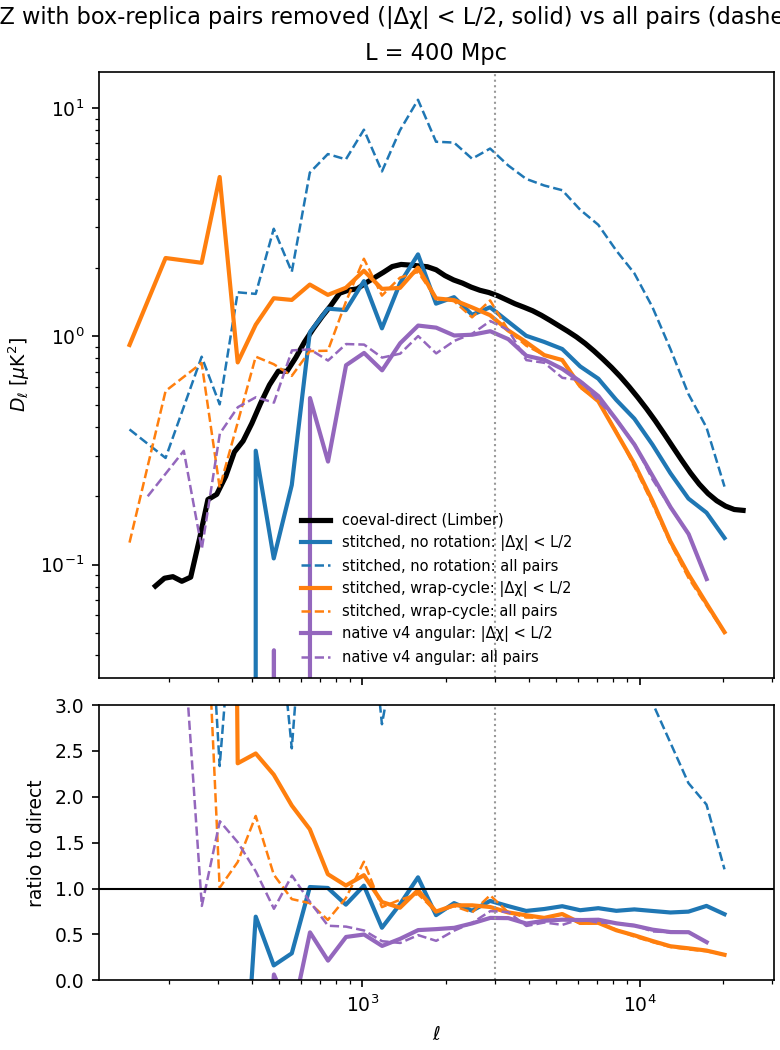
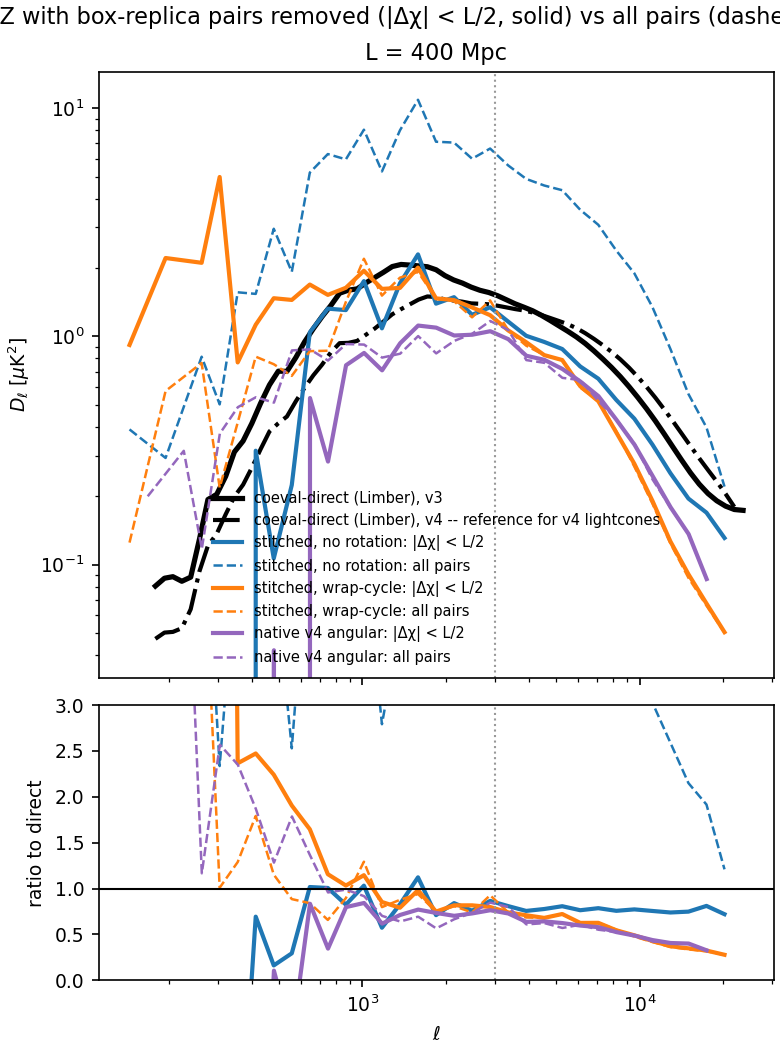
28 Oct 2026: v4 lightcones compared with their own v4 Limber reference (script 46)

diff --git a/data/plots/28Oct2026_limber_scope_400_per_native/README.md b/data/plots/28Oct2026_limber_scope_400_per_native/README.md
@@ -11,3 +11,9 @@ stitched (no rotation), stitched (wrap-cycle 123) and ONE native lightcone. Numb
 
 Files: limber_scope_Dl.png (D_l, |dchi| < L/2 vs all pairs vs Limber), limber_scope_dchi.png (cross-power vs |dchi|/L, / D_direct),
 limber_scope_dchi_selfnorm.png (same, / each lightcone's own D_diag), limber_scope.npz.
+
+**Update (28 Oct 2026, afternoon):** native_v4_rect/ and native_v4_ang/ now compare the v4 lightcones with a v4 coeval-direct
+Limber reference (scripts/46_v4_coeval_limber.py; same inputs/realisation as the v4 lightcones; file v4_coeval_direct_box400.npz
+here). v4 coeval velocity units confirmed (v_pec = velocity/(1+z): linear-fit slope 1.001, corr +1.00). v4 reionizes later than v3
+(midpoint z = 7.12) and its Limber D_3000 = 1.369 uK^2 (v3: 1.524). Against its own Limber, trunc/direct at l = 2000-4000 is
+0.75 (v4 rect) and 0.71 (v4 ang), similar to stitched v3 at this box (0.78-0.80; 0.93 at 800 Mpc). Native v3 (0.98) is the outlier.
